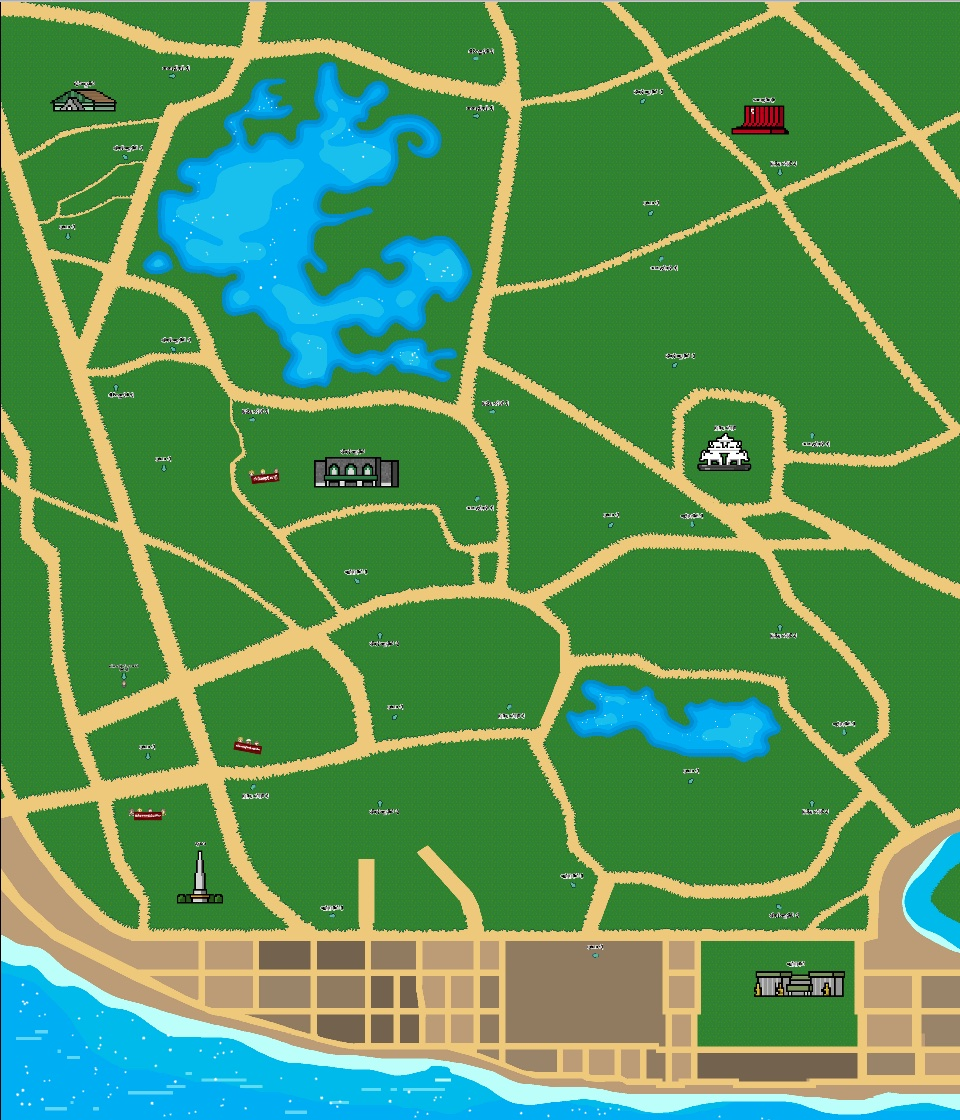
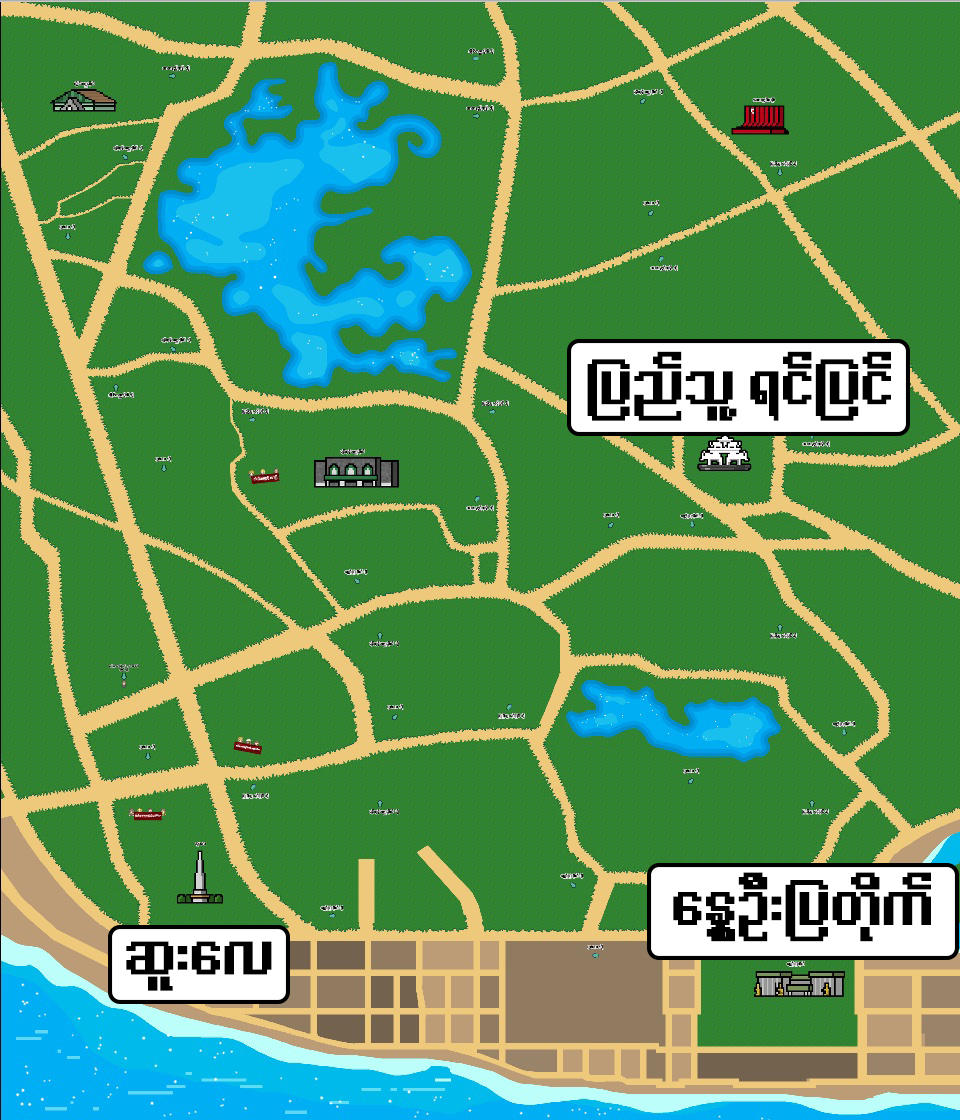
Map Info V0.1

diff --git a/map_info/main.html b/map_info/main.html
@@ -5,8 +5,49 @@
         <link rel="stylesheet" href="../bootstrap.min.css">
     </head>
     <body>
-        <div>
-            <img src="main_map.jpg" />
+        <div class="card mb-3" style="margin: 20px">
+            <h3 class="card-header">လူထုတွေ့ဆုံပွဲ ၂၀၂၄ အခမ်းအနား အစီအစဉ်</h3>
+            <div class="card-body">
+              <div style="width: 100%; text-align: center;">
+                <img class="rcorners" src="main_map.jpg" />
+              </div>
+              <p></p>
+              
+              <p class="mmtitle">
+                ဆူးလေ (မဟာဗန္ဓုလ ပန်းခြံ)
+              </p>
+
+              <p class="mmtext">
+                <ul>
+                    <li>နိုင်ငံတော်သမ္မတ၏ နွေဦးတော်လှန်ရေး ၃နှစ်ပြည့် မိန့်ခွန်း</li>
+                </ul>
+              </p>
+
+              <br/>
+              <p class="mmtitle">
+                နွေဦးပြတိုက်
+              </p>
+
+              <p class="mmtext">
+                <ul>
+                    <li>Burmese Civial War Museum</li>
+                    <li> မြန်မာ့ ပြည်တွင်းစစ်၏ သမိုင်းမှတ်တမ်း ဆွေးနွေးပွဲ <br/> ဆွေးနွေးမည့်သူများ။   ။ကိုသက်ဆွေဝင်း၊ ကိုဖိုးသကြန်)<br/>10 AM to 11AM (Myanmar Standard Time)</li>
+                </ul>
+              </p>
+
+              <br/>
+              <p class="mmtitle">
+                ပြည်သူ့ရင်ပြင်
+              </p>
+
+              <p class="mmtext">
+                <ul>
+                    <li>ေသာင္ရင္း သုခုမ အဖြဲ့၏ ေဖ်ာ္ေျဖေရး အစီအစဥ္<br/>10 AM to 11AM (Myanmar Standard Time)</li>
+                    <li> နွေဦးတော်လှန်ရေး ၃နှစ်ပြည့် အောင်မြင်မှုများ ဆွေးနွေးပွဲ<br/> ဆွေးနွေးမည့်သူများ။   ။ကိုသက်ဆွေဝင်း၊ ကိုဖိုးသကြန်)<br/>10 AM to 11AM (Myanmar Standard Time)</li>
+                </ul>
+              </p>
+
+             </div>       
         </div>
          
     </body>
